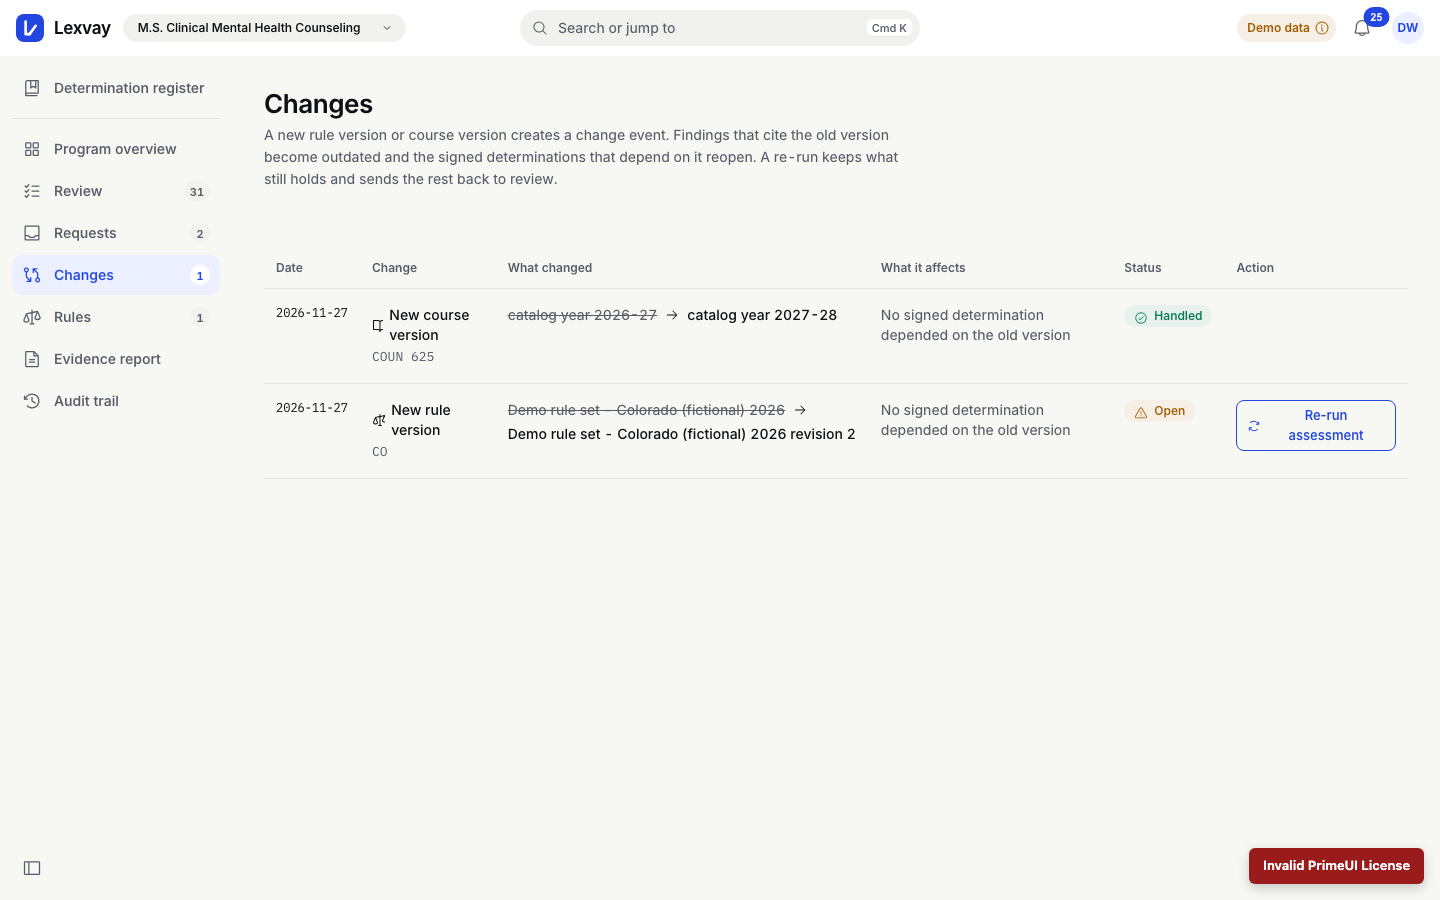
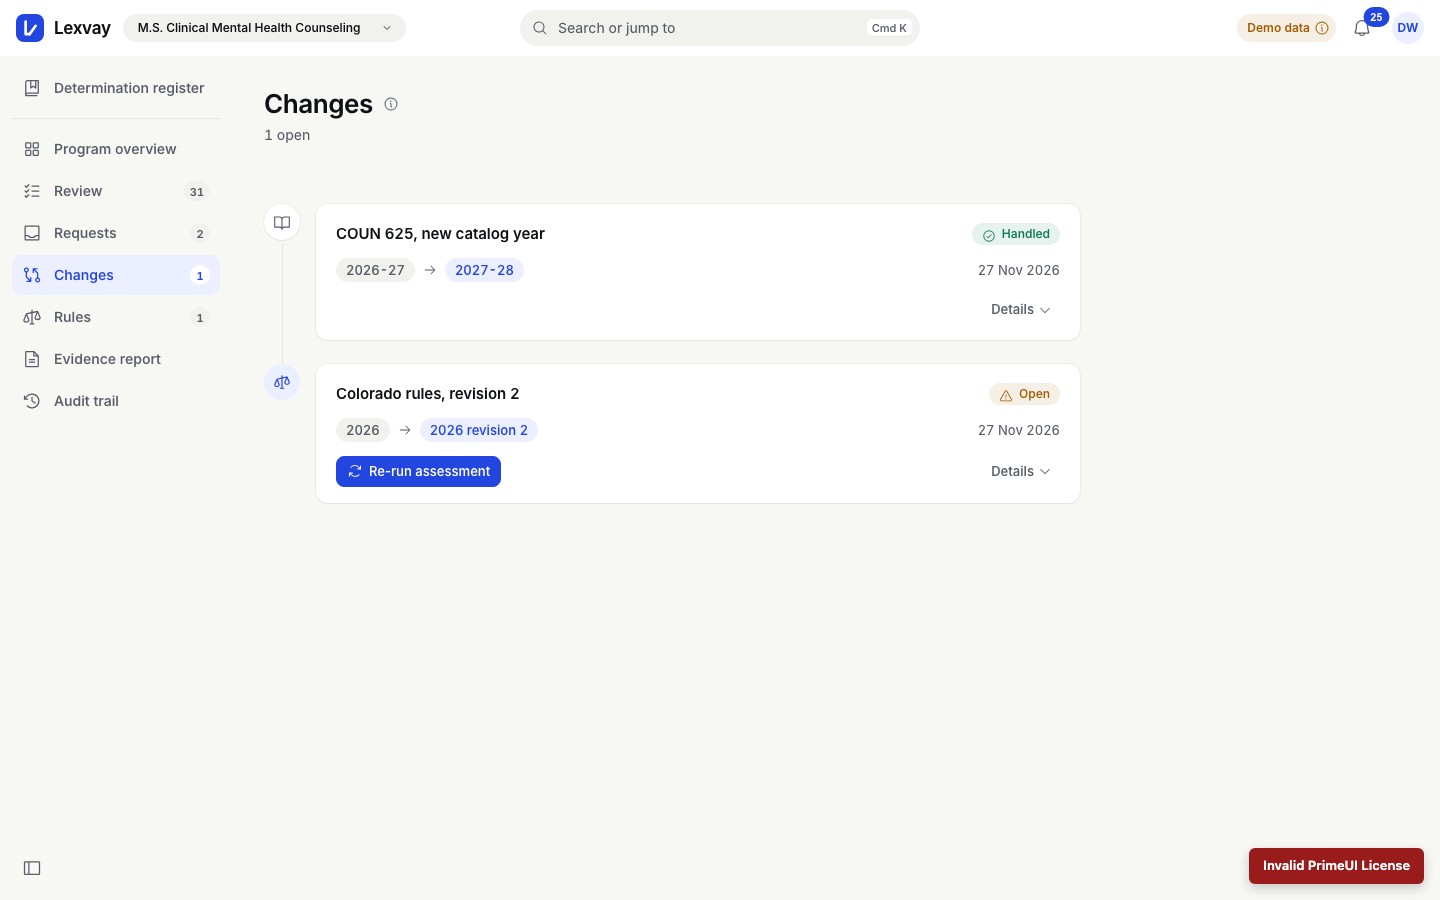
UI2-3 decisions D-340 to D-349, progress with test results, and screenshots

diff --git a/docs/decisions/UI2-3.md b/docs/decisions/UI2-3.md
@@ -1,0 +1,100 @@
+# UI2-3 — Changes, audit trail and evidence report in design v2 (D-340 to D-349)
+
+**D-340 — Both timelines are PrimeNG Timeline, given list semantics.** Changes and the audit trail use `p-timeline`
+(PrimeNG provides it, so it is not hand-built) with the screens' own marker and content templates. Timeline renders
+plain `div`s, so pass-through gives the root `role="list"` and each event `role="listitem"`, which is what a screen
+reader and the end-to-end tests navigate by (`list` "Change events", one `list` per audit day named by its heading). The
+opposite column is hidden (`display: none`), the connector is a 1 px `line` rule (`theme/timeline-tokens.ts`, one set
+shared by both chunks, registered by each). Expanding in place is a native disclosure button (`aria-expanded`,
+`aria-controls` only while open, so it never names a missing element) whose details rise into view with a 200 ms
+opacity and transform keyframe; height is never animated. Rejected: an Accordion per entry (a panel per timeline row,
+heavier markup and a second focusable header) and `<details>` (its open state cannot be driven by the screen's signal,
+and its marker differs per browser).
+
+**D-341 — One sentence function per audited action, kept complete by reading the backend.** `audit-sentence.ts` holds
+`AUDIT_SENTENCES`, one pure function per action, each starting with who acted ("Dana Whitfield accepted CA-3", "System
+finished re-running COUN 625: 1 quote still present, 2 back in review"), and `ACTION_LABEL`, the short name of each for
+the filter. `audit-sentence.spec.ts` reads `backend/src/main/java` for every `audit.record(...)` and `recordAs(...)`
+action and requires both tables to hold exactly that set (37 actions, with SEC-2's `PASSWORD_REHASHED`), so a new backend action fails the frontend
+unit suite until it has words. A missing or malformed detail falls back to a general noun ("a requirement"); the spec
+runs every sentence with an empty and a malformed detail and fails on `undefined`, `null`, `NaN`, `[object` or a brace.
+An unknown action reads "Dana Whitfield: Password rehashed" (its words, never its detail). `ACTION_LABEL` and
+`actionLabel` moved out of `core/labels.ts`, which the shell imports, into the audit chunk.
+
+**D-342 — The audit list filters on the server; the chips are Selects drawn as pills.** The list now asks `GET
+/audit` with the filters on screen (`auditParams`: only the filters that are set, D-116) instead of loading 500 entries
+and filtering them in the browser, so a filter reaches every entry, not the newest 500. Chips: Person (`userId`, from
+`GET /users`), Action (every audited action, with a search box), Record type (every record type the backend writes),
+Period (Today, Last 7 days, Last 30 days, sent as `from` at local midnight). The option lists are fixed rather than
+derived from the loaded rows, because a server-filtered page holds only a slice. Each chip is a PrimeNG Select with the
+pill look of the shell's program switcher, accent-tint once it holds a value, with its clear icon; the accessible names
+are the dimension ("Action"), so the value never renames the control. Pages of 100 ("Show older" asks for the next
+offset with the same filters); an answer to an earlier filter that arrives late is dropped. "Download CSV" is shown to
+administrators only (`SessionService.isAdmin`, the endpoint's `hasRole('ADMIN')`) and links `GET /audit.csv` with the
+same parameters from the same function (`auditCsvUrl`), so the file and the screen cannot disagree. Entries written by
+background work cannot be chosen under Person: `userId` cannot express "no user".
+
+**D-343 — Days are local calendar days.** `groupByDay(rows, now)` keeps the server's newest-first order and starts a
+group at each new local date: "Today", "Yesterday", then "Friday 20 November" (day before month, the order the rest of
+the product uses for dates), with the year only when it is not the current one. Times on the entries are local `HH:mm`;
+the expanded details give the full local timestamp in mono.
+
+**D-344 — Details in words; avatars from the Seal's initials.** `detailRows` words the detail keys the backend writes
+(a table of labels and formats in reading order: "Decision: Gap confirmed", "Jurisdiction: California (CA)", "Before:
+9 requirements"); a key not in the table still shows by its name in words when its value is plain text, a number, a yes
+or no, or a list of those; nested objects never show (they stay in the CSV); ids and hashes are mono. The record type and
+id lead the details. The avatar is a PrimeNG Avatar with `initials()` from `ui/seal.ts` (one implementation of
+initials); background work shows a gear, a user id the tenant no longer lists shows a person icon and reads "Former
+user". Avatars are `aria-hidden`: the sentence already names who acted. Sign-out is recorded after the session is
+cleared, so its entry carries no user and read "System signed out"; for the actions a person takes on their own account
+(sign-in, sign-out, setting a password), an entry without a user is attributed to the account it is recorded on.
+The backend should record the actor of `LOGOUT` itself (rule 9: who); that is a backend change outside this item.
+
+**D-345 — Change cards.** `change-card.ts` (pure, tested) builds each card. Titles: "Colorado rules, revision 2" (the
+state's name and the words only the new label has) and "COUN 625, new catalog year". The two pills are the parts of
+the two version names that differ (`versionPills`: drop the shared leading words but keep the last shared one when one
+name extends the other, so "... 2026" and "... 2026 revision 2" read "2026" and "2026 revision 2"); the full names are
+in the details. "What it affects" names the states of this program whose signed determination the change reopened and
+counts the others ("Colorado, 1 in another program"), because the change list is tenant-wide and the screen holds only
+this program's determinations. Newest change first. The one action is the re-run; when it cannot run yet, the reason
+sits beside the disabled button (as before). While it runs, the card shows a spinner with the job's phase from `GET
+/jobs/{id}` (Queued, Re-running, then Updating while the program reloads), then a toast. Status chips are Tags with an
+icon and a word.
+
+**D-346 — The report sheet.** An 880 px sheet at e2 in Document type: the jurisdiction as a 32/40 serif heading, the
+program line under it, and at the top right the Seal (112 px) when the determination is signed or a dashed "Draft"
+stamp when it is not. The Draft stamp keeps D-027's words: its accessible name is "Draft. Not a determination." and it
+prints "Draft" over "Not a determination". The seal stamps once when it appears (scale 1.12 to 1 and -8° to 0 with
+`--lx-spring` over 420 ms, one ink ring fading out over 600 ms), the motion table's signing moment, in this screen's
+CSS; reduced motion zeroes both. The signature (outcome, signer, date, rule version, course versions locked and the
+versions hash) stays under the heading, because rule 6 makes the report name its exact versions. Requirements are an
+ordered list: ref, title (a heading, level 4), one StatusIcon with its words, the quote in Document type with its
+citation, and the reviewer's note when there is one. The rule text of each requirement left the screen (word budget;
+Review and the PDF carry it).
+
+**D-347 — "Download PDF" is one action in a floating pill.** The pill (raised, e3, 999 px radius, no blur: the blur
+stays the DecisionBar's) is sticky at the bottom of the view under the sheet. One click generates the PDF (the report
+job), waits for it and saves it; later clicks on the same determination save the same file without a new job; a toast
+says it is ready. `GET /reports/{id}` answers with the status as JSON while the job runs and with the PDF itself once
+it is ready (D-069), so the poll asks for a Blob and `core/report-answer.ts` (`readReport`, tested) reads either: the
+last poll already carries the file, which is saved under the server's `Content-Disposition` name through an object
+URL. v1 polled with `Accept: application/json` and parsed the answer as JSON, so the poll that found the PDF ready
+failed with "The PDF could not be generated." (found by the new end-to-end test; no earlier test generated a PDF). For a draft the button is
+disabled and the pill says "After signing" (D-089: the PDF exists only for a signed determination). Rejected: the two
+buttons of v1 (Generate, then Download).
+
+**D-348 — Chunks and bundle.** The audit trail now shows icons, so it is loaded with `loadChildren` from
+`audit.routes.ts`, which provides `AUDIT_ICONS` (PERF-FE-1); `theme/icons.spec.ts` checks the set. Token sets moved
+with their screens: Timeline in Changes and Audit, Avatar (accent on accent-tint, a pair the contrast test already
+covers through Tag) in Audit; DataTable left all three screens. `ACTION_LABEL` left the initial bundle (D-341). Initial
+bundle: see `docs/progress/UI2-3.md`.
+
+**D-349 — End-to-end changes.** `records.spec.ts` is a new project that runs after the suite (like the register spec),
+because the signed report and the signing entry need the California signature of `review-and-sign.spec.ts`: audit
+chips (the request carries `userId` and `action`, one entry remains, its details open), the administrator's CSV (file
+name, header row, the one filtered row), the empty state's "Clear filters", the report (Draft stamp and disabled
+download; seal, eight requirements, the PDF download checked by its `%PDF-` header, the toast), and axe in both themes
+with no horizontal scroll at 1440 and 400 px on Changes, the audit trail and both report states.
+`review-and-sign.spec.ts` follows the new names (lists, the seal's name, the note) and its re-run test runs from the
+course card, holding job status answers back 400 ms so the card's progress is visible long enough to assert; `rules.spec.ts`
+reads the audit sentences; `screens.spec.ts` adds the `ui2-3-*` screenshots.

diff --git a/docs/progress/UI2-3.md b/docs/progress/UI2-3.md
@@ -1,0 +1,73 @@
+# UI2-3 — Changes, audit trail and evidence report in design v2
+
+Branch `ui2-changes-audit-report`, end-to-end slot 7. Decisions D-340 to D-349 in `docs/decisions/UI2-3.md`.
+
+## Plan
+1. Audit trail: one pure sentence function per audited action (complete against the backend's sources), worded
+   details, day grouping, server-side filters as chips, "Download CSV" for administrators with the same filters.
+2. Changes: a timeline of cards built by one pure card model (title, version pills, status, one action, what it
+   affects), re-run progress from the job status, then a toast.
+3. Evidence report: a document sheet with the Seal or a Draft stamp, requirements as a list with StatusIcon and quotes,
+   a floating "Download PDF" pill.
+4. Explanations into InfoTips; icons and token sets per chunk; initial bundle under the 680 kB warning.
+5. Tests: Vitest for sentences, details, grouping, filters and the change card; end-to-end for the re-run from a card,
+   the filter chips, the administrator's CSV (header row), the report download, axe in both themes at 1440 and 400 px.
+
+## What was built
+- `screens/audit/audit-sentence.ts`: `AUDIT_SENTENCES` (37 actions, one function each) and `ACTION_LABEL`, moved
+  out of `core/labels.ts`; `audit-view.ts`: rows (actor, initials, sentence), `detailRows`, `groupByDay`,
+  `auditParams` / `auditCsvUrl`, the filter options. The screen pages through `GET /audit` 100 entries at a time.
+- `screens/changes/change-card.ts`: `versionPills`, `affects`, `changeCard`, `changeCards`; the screen renders them on
+  PrimeNG Timeline with list semantics.
+- `screens/report/`: the sheet, the stamp moment, the pill; `core/report-answer.ts` reads the report poll as JSON status
+  or the PDF itself. This fixed a v1 defect: the poll parsed the ready PDF as JSON, so "Generate PDF" always ended in
+  "The PDF could not be generated." once the PDF was ready.
+- `theme/timeline-tokens.ts` (shared by Changes and Audit), Avatar tokens in `audit-theme.ts`; `audit.routes.ts`
+  provides `AUDIT_ICONS`.
+
+## Results (2026-11-27, after merging `origin/main` at 5f58ab9 with SEC-2 and F10a)
+
+`make frontend-test`:
+```
+ Test Files  28 passed (28)
+      Tests  281 passed (281)
+```
+
+`LEXVAY_SCREENSHOTS=1 LEXVAY_E2E_SLOT=7 make test` (backend, frontend unit, end-to-end; exit 0):
+```
+[INFO] Tests run: 1070, Failures: 0, Errors: 0, Skipped: 0
+[INFO] BUILD SUCCESS
+[INFO] Total time:  07:59 min
+ Test Files  28 passed (28)
+      Tests  281 passed (281)
+  ✓  15 [suite] › e2e/screens.spec.ts:153:1 › screenshots of changes, the audit trail and the evidence report at 1440 and 400 px (17.2s)
+  ✓  30 [records] › e2e/records.spec.ts:20:1 › the audit filter chips ask the server, details open in place, and the administrator downloads the same entries as CSV (4.7s)
+  ✓  31 [records] › e2e/records.spec.ts:59:1 › an empty filter result says so with one action that clears it (2.8s)
+  ✓  32 [records] › e2e/records.spec.ts:69:1 › the signed report carries the seal and downloads its PDF; a draft carries the Draft stamp (3.4s)
+  ✓  33 [records] › e2e/records.spec.ts:92:3 › changes, the audit trail and both report states pass axe at 1440 px without horizontal scroll (7.2s)
+  ✓  34 [records] › e2e/records.spec.ts:92:3 › changes, the audit trail and both report states pass axe at 400 px without horizontal scroll (7.9s)
+  34 passed (5.1m)
+```
+The re-run from a timeline card is `review-and-sign.spec.ts:181` (passed, 5.1 s). Every end-to-end test also fails on
+a request to a host other than localhost and on an unregistered icon; none did.
+
+Production build (`npx ng build`), initial bundle under the 680 kB warning:
+```
+main-5S4N4VJ4.js    | main            | 598.52 kB |               153.92 kB
+styles-VLABZARL.css | styles          |   9.22 kB |                 2.39 kB
+                    | Initial total   | 607.74 kB |               156.31 kB
+chunk-g_02x9GH.js   | audit-routes    |  34.00 kB |                  9.94 kB
+```
+UI2-0 measured 606.77 kB (D-317); the +1 kB is the Blob reading of the report poll in the eager `ApiService` and
+`isAdmin`, less the action labels that left the shell.
+
+Screenshots (`docs/screens/`, light and dark each): `ui2-3-changes-1440`, `ui2-3-changes-400`, `ui2-3-audit-1440`,
+`ui2-3-audit-400`, `ui2-3-report-draft-1440`, `ui2-3-report-draft-400`, `ui2-3-report-signed-1440`,
+`ui2-3-report-signed-400`; the v1 names `changes`, `evidence-report`, `evidence-report-ca` and `audit-trail` were
+retaken with the new screens. Screenshots of other items' screens that the run retook were left as they were.
+
+## Follow-ups outside this item
+- Backend: `LOGOUT` is recorded after the session is cleared, so its entry has no user (rule 9, "who"). The screen
+  attributes own-account actions to the account they are recorded on (D-344); the backend should record the actor.
+- A new audited action fails `audit-sentence.spec.ts` until it has a sentence and a label (D-341): intended, but it
+  couples backend items to one frontend file.
